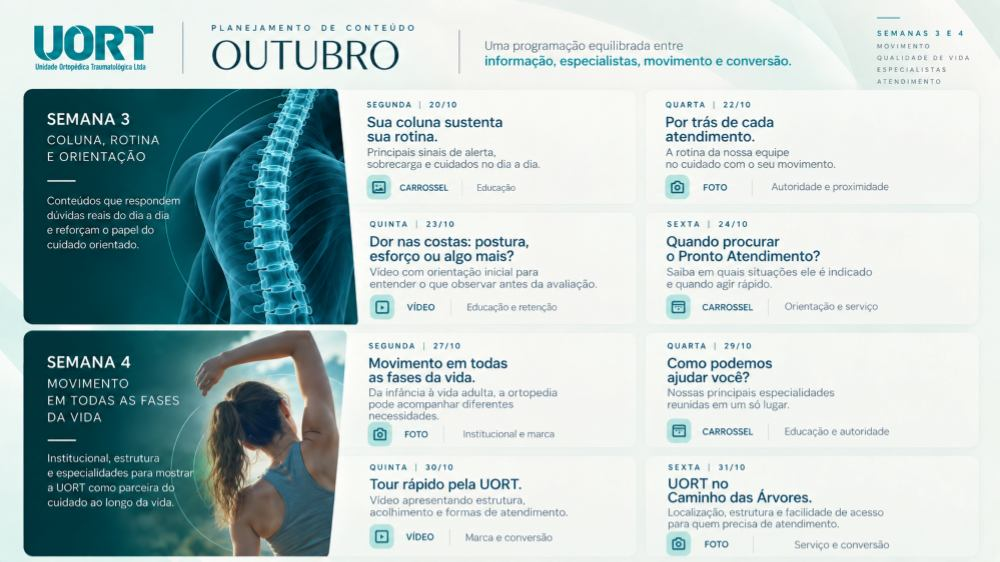
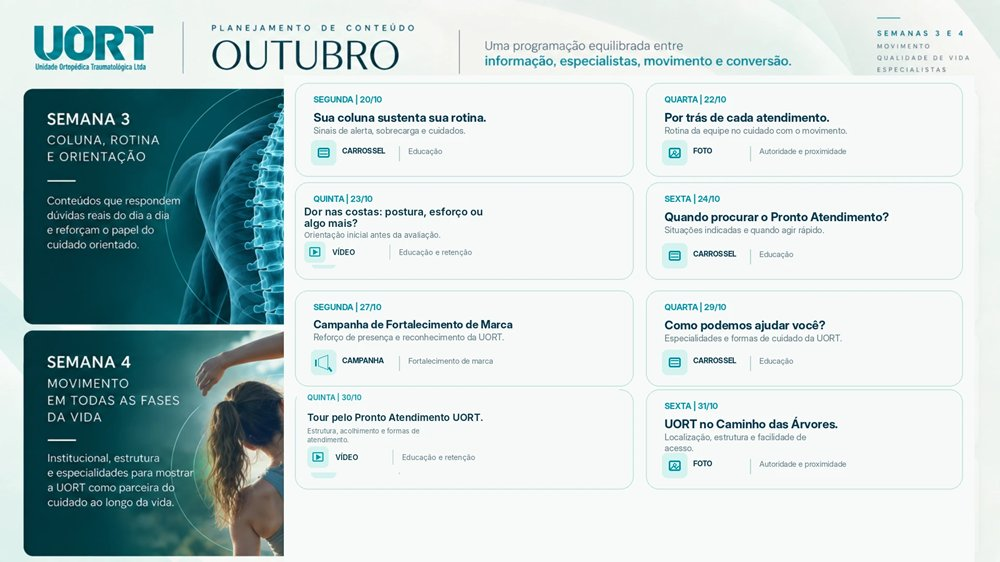
Novo calendário de outubro: semanas 3 e 4 (lâmina 46)

diff --git a/js/data.js b/js/data.js
@@ -65,7 +65,7 @@ window.DECK = {
     43: { t: 'Google Business Profile', d: 'O paciente de trauma não pesquisa em redes: ele decide em minutos pelo celular. Como funciona: 01 o paciente pesquisa no Google (“ortopedista perto de mim”, “pronto atendimento ortopédico”) · 02 a unidade aparece com fotos, avaliação, horário e endereço · 03 ele decide e entra em contato. O perfil coloca a UORT na frente de quem já está pronto para ser atendido.', key: true, k: 'google maps busca perfil local pronto atendimento' },
     44: { t: 'Planejamento de Conteúdo', d: 'Abertura do capítulo de planejamento de conteúdo.', divider: true },
     45: { t: 'Outubro · Semanas 1 e 2', d: 'Semana 1: consciência e identificação — ombro, especialistas em movimento e Pronto Atendimento Ortopédico (8h às 19h, sem agendamento). Semana 2: dor no dia a dia e qualidade de vida — joelho, Campanha de Fortalecimento de Marca e “Caiu? Machucou? Quebrou?”.', key: true, k: 'calendário editorial outubro posts' },
-    46: { t: 'Outubro · Semanas 3 e 4', d: 'Semana 3: coluna, rotina e orientação. Semana 4: movimento em todas as fases da vida, com tour pela UORT e o Caminho das Árvores.', k: 'calendário editorial outubro posts' },
+    46: { t: 'Outubro · Semanas 3 e 4', d: 'Semana 3: coluna, rotina e orientação — coluna, bastidores do atendimento, dor nas costas e quando procurar o Pronto Atendimento. Semana 4: movimento em todas as fases da vida — Campanha de Fortalecimento de Marca, como podemos ajudar, tour pelo Pronto Atendimento UORT e a UORT no Caminho das Árvores.', k: 'calendário editorial outubro posts' },
     47: { t: 'Mídia Online', d: 'Abertura do capítulo de mídia online.', divider: true },
     48: { t: 'Mídia Online: Google Ads + Meta Ads', d: 'Google Ads: R$ 5.000/mês para captar pacientes com intenção de busca. Meta Ads: R$ 2.500/mês para fortalecer a marca e alcançar novos públicos. Investimento total: R$ 7.500/mês.', key: true, k: 'investimento verba orçamento preço valor anúncios' },
     49: { t: 'Página de especialidade: Especialistas em Joelho', d: 'Modelo de landing page para as campanhas, mostrado como uma página de verdade: chamada principal com agendamento e WhatsApp; “Conviver com a dor virou rotina… mas não deveria”; como podemos ajudar (dor no joelho, lesão ligamentar, menisco e artrose); e o especialista — atendimento humanizado, membro da SBOT e tratamentos baseados em evidências.', html: 'page', key: true, k: 'landing page site joelho dor tratamentos menisco artrose lca especialista sbot',
